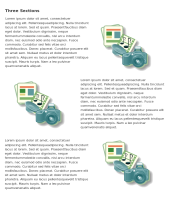
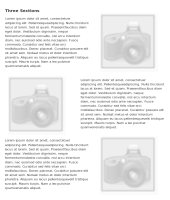
+ PageSmith now allows the sorting of templates + Page titles now added to search. + Wrong page ids don't 404. Send to message page.

Changed region(s): [[0.0294, 0.39, 0.3824, 0.66], [0.5882, 0.06, 0.9118, 0.36], [0.5882, 0.69, 0.9118, 0.96]]

diff --git a/mod/pagesmith/templates/style.css b/mod/pagesmith/templates/style.css
@@ -12,3 +12,10 @@ div#pick-templates img {
     width : 170px;
     height : 200px;
 }
+
+div.tpl-folder {
+    float : left;
+    display : inline;
+    width : 130px;
+    text-align : center;
+}

diff --git a/mod/pagesmith/class/PS_Forms.php b/mod/pagesmith/class/PS_Forms.php
@@ -13,10 +13,12 @@ class PS_Forms {
     function editPage()
     {
         if (!$this->ps->page->id) {
-            if (isset($_REQUEST['tpl'])) {
+            if (isset($_GET['tpl'])) {
                 $this->pageLayout();
-            } else {
+            } elseif (isset($_GET['fname'])) {
                 $this->pickTemplate();
+            } else {
+                $this->pickFolder();
             }
             return;
         }
@@ -228,11 +230,48 @@ class PS_Forms {
             $this->ps->content = dgettext('pagesmith', 'Could not find any page templates. Please check your error log.');
         }
 
+        @$fname = $_GET['fname'];
+
         foreach ($this->tpl_list as $pgtpl) {
+            if ($fname && !empty($pgtpl->folders) && !in_array($fname, $pgtpl->folders)) {
+                continue;
+            }
             $tpl['page-templates'][] = $pgtpl->pickTpl();
         }
 
+        $tpl['BACK'] = PHPWS_Text::secureLink(dgettext('pagesmith', 'Back to style selection'), 'pagesmith', array('aop'=>'menu', 'tab'=>'new'));
         $this->ps->content = PHPWS_Template::process($tpl, 'pagesmith', 'pick_template.tpl');
+    }
+
+    function pickFolder()
+    {
+        @include 'config/pagesmith/folder_icons.php';
+
+        Layout::addStyle('pagesmith');
+        $this->loadTemplates();
+        foreach ($this->tpl_list as $template) {
+            if ($template->folders) {
+                foreach ($template->folders as $folder_name) {
+                    $folder_list[$folder_name]++;
+                }
+            }
+        }
+
+        $vars['aop'] = 'menu';
+        foreach ($folder_list as $name=>$count) {
+            $vars['fname'] = $name;
+            $image = @$folder_icon[$name];
+            if (!$image) {
+                $image = 'folder_contents.png';
+            }
+            $link = PHPWS_Text::linkAddress('pagesmith', $vars, true);
+            $tpl['folders'][] = array('TITLE' => ucwords(str_replace('-', '&nbsp;', $name)),
+                                      'IMAGE' => sprintf('<a href="%s"><img src="images/mod/pagesmith/folder_icons/%s" /></a>', $link, $image),
+                                      'COUNT' => sprintf(dngettext('pagesmith', '%s template', '%s templates', $count), $count));
+        }
+
+        $this->ps->title = dgettext('pagesmith', 'Choose a style');
+        $this->ps->content = PHPWS_Template::process($tpl, 'pagesmith', 'pick_folder.tpl');
     }
 
     function settings()

diff --git a/mod/pagesmith/class/PS_Template.php b/mod/pagesmith/class/PS_Template.php
@@ -16,6 +16,7 @@ class PS_Template {
     var $thumbnail = null;
     var $style     = null;
     var $structure = null;
+    var $folders   = null;
 
     var $error     = null;
     var $page      = null;
@@ -42,13 +43,13 @@ class PS_Template {
             return $xml->error;
         }
 
-        $result =  $xml->format();
+        $result = $xml->format();
 
         if (empty($result['TEMPLATE'])) {
             return;
         }
 
-        $this->data      = $result['TEMPLATE'];
+        $this->data = $result['TEMPLATE'];
         if (!isset($this->data['TITLE'])) {
             $this->error[] = PHPWS_Error::get(PS_TPL_NO_TITLE, 'pagesmith', 'PS_Template::loadTemplate', $this->name);
             return;
@@ -77,6 +78,10 @@ class PS_Template {
         }
 
         $this->structure = & $this->data['STRUCTURE']['SECTION'];
+
+        if (isset($this->data['FOLDERS'])) {
+            $this->folders = & $this->data['FOLDERS']['NAME'];
+        }
     }
 
     function loadStyle()

diff --git a/mod/pagesmith/class/PageSmith.php b/mod/pagesmith/class/PageSmith.php
@@ -35,6 +35,7 @@ class PageSmith {
         $this->loadPanel();
 
         $javascript = false;
+
         switch ($_REQUEST['aop']) {
         case 'menu':
             $this->loadForms();
@@ -278,7 +279,7 @@ class PageSmith {
             }
             Layout::add($content);
         } else {
-            PHPWS_Core::errorPage('404');
+            Layout::add(dgettext('pagesmith', 'Sorry, but your page could not be found. You may wish to search for it.'));
         }
     }
 

diff --git a/mod/pagesmith/class/PS_Page.php b/mod/pagesmith/class/PS_Page.php
@@ -212,6 +212,11 @@ class PS_Page {
 
         $this->saveKey();
 
+        $search = new Search($this->key_id);
+        $search->resetKeywords();
+        $search->addKeywords($this->title);
+        PHPWS_Error::logIfError($search->save());
+
         foreach ($this->_sections as $section) {
             $section->pid = $this->id;
             PHPWS_Error::logIfError($section->save($this->key_id));

diff --git a/mod/pagesmith/conf/folder_icons.php b/mod/pagesmith/conf/folder_icons.php
@@ -1,0 +1,12 @@
+<?php
+/**
+ * @version $Id$
+ * @author Matthew McNaney <mcnaney at gmail dot com>
+ */
+
+$folder_icon['one-column']     = 'onecolumn.png';
+$folder_icon['two-column']     = 'twocolumn.png';
+$folder_icon['one-image']      = 'oneimage.png';
+$folder_icon['no-image']       = 'noimage.png';
+$folder_icon['multiple-image'] = 'multipleimage.png';
+?>
